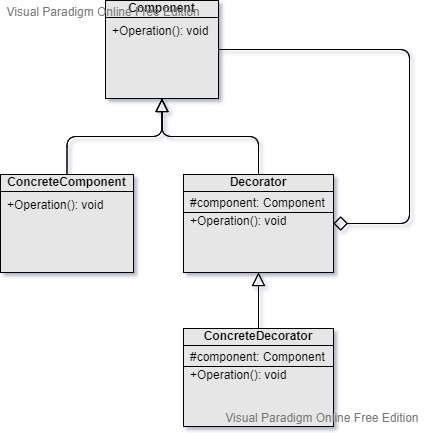
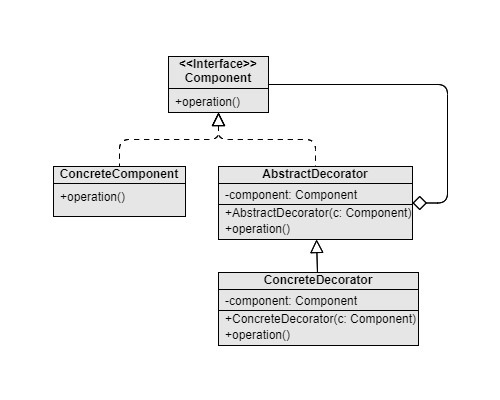
Enhance readme and UML diagram of Decorator design pattern

diff --git a/decorator/README.md b/decorator/README.md
@@ -1,11 +1,7 @@
 Decorator
 ===
-Scenario: When a function of a stable system needs to be enhanced, and the enhancement is somehow like superimposing new ability to existing feature, then the decorator design pattern can be a good choice.
+Scenario: To attach new behaviors to objects.
 
-Pattern: There are two chains under the inheritance family. One is the concrete entity chain, and the other is the pseudo decoration chain in which all objects hold a reference to the base interface. The concrete entity chain represents the functionality; While the pseudo decoration chain represents the enhancements.
-
-Example:
-- The buff applied to character (maybe from weapon, armor, or spell)
-- To add pearl, konjac, taro, herbal jelly into the drink. Additional cost is required for each seasoning
+Example: Calculate cost of adding various kind of drink seasonings like pearl, konjac, taro, and herbal jelly.
 
 ![UML](UML.jpg)
